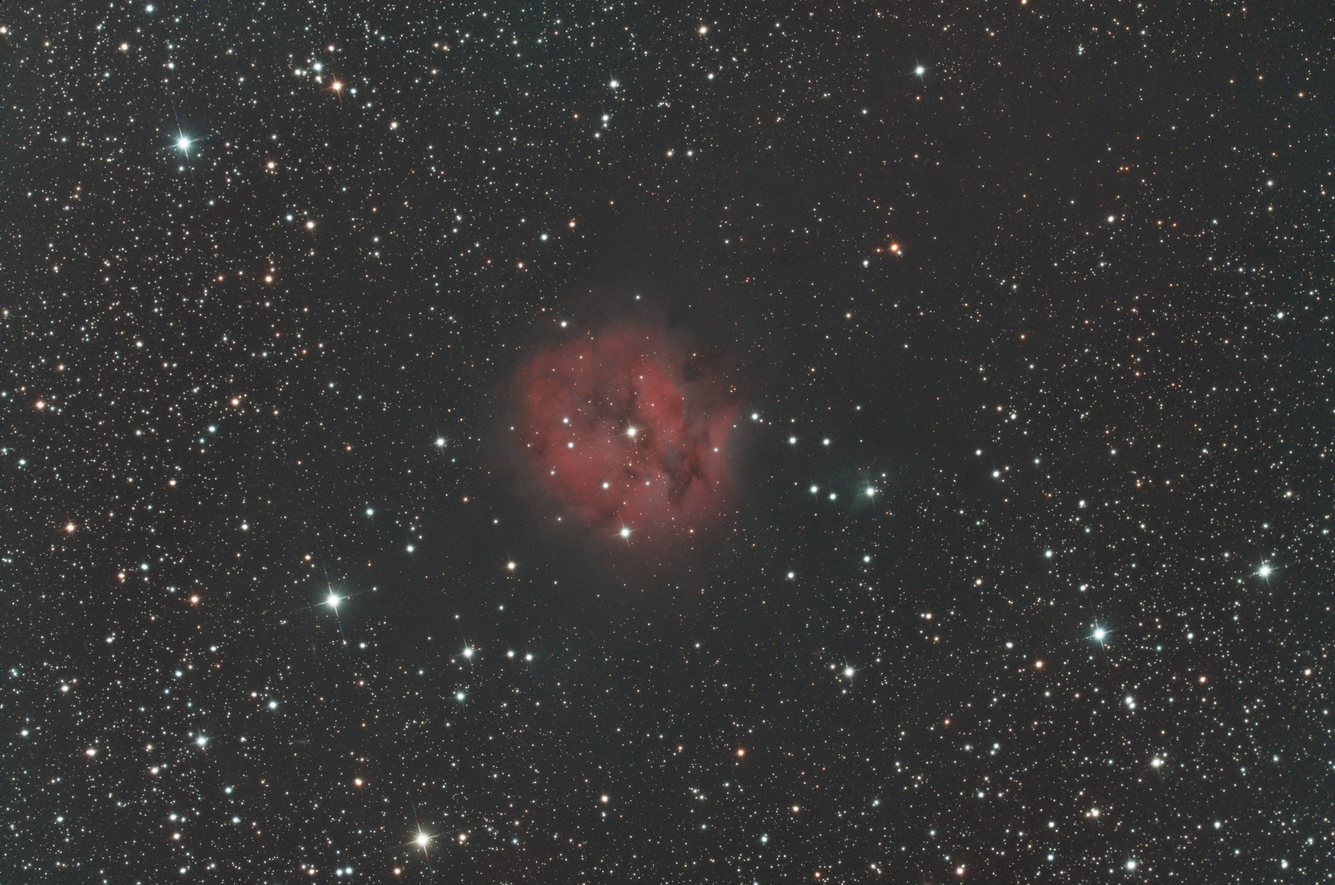
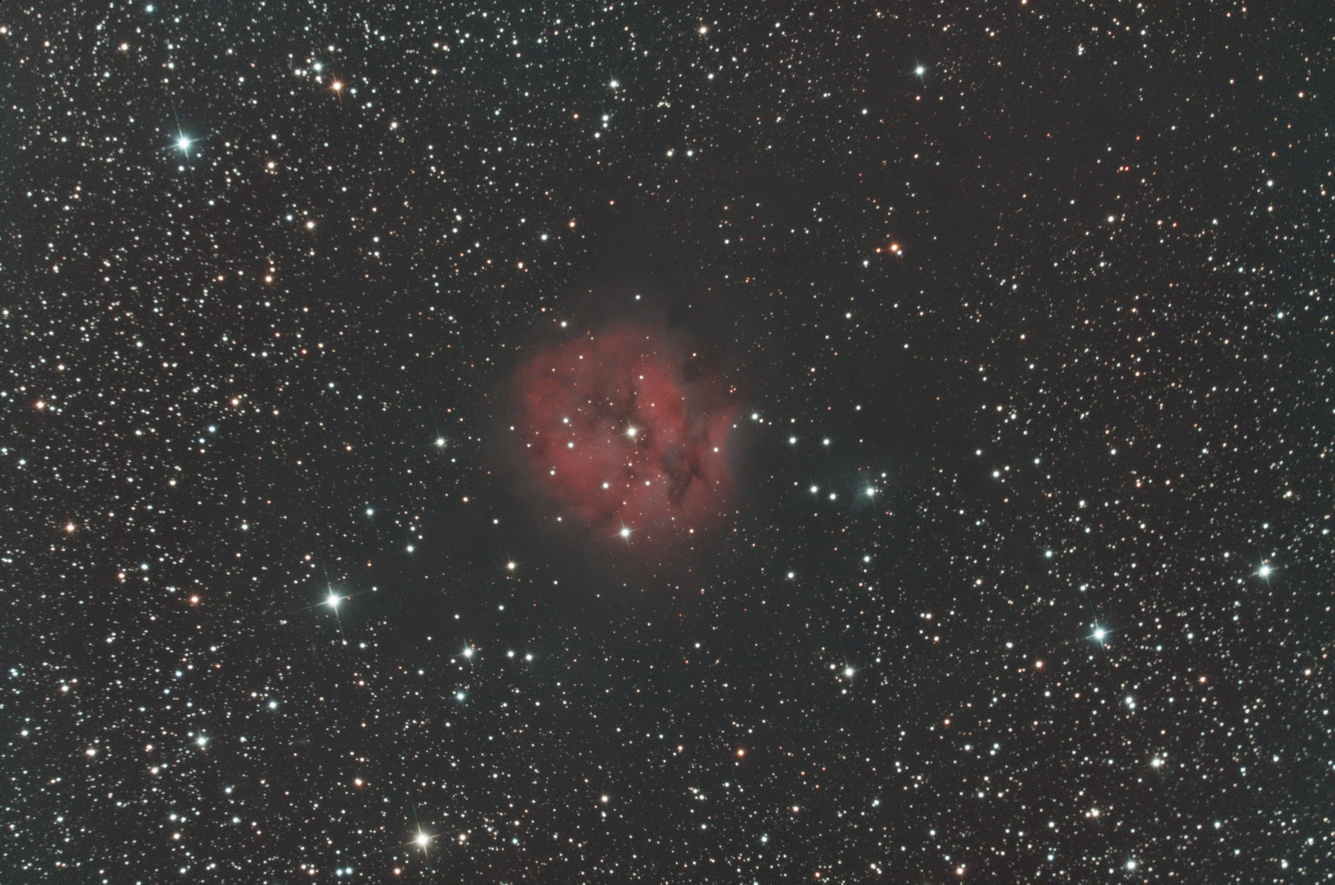
StellAcuity 1.3.1: download, California and Cocoon gradient sliders, new top-left picture

Changed region(s): [[0.0625, 0.3386, 0.0938, 0.3693], [0.0625, 0.1539, 0.0938, 0.1847]]

diff --git a/index.html b/index.html
@@ -7,7 +7,7 @@
 <meta name="description" content="StellAcuity: AI sharpening (deconvolution), star removal and noise reduction for astronomical images. Windows, mono and colour, FITS / XISF / TIFF / JPEG / PNG. 7-day free trial (3 saved results).">
 <!--
   Published at https://stellacuity.com (29 Oct 2026):
-    (download: GitHub Release v1.3.0 - Stellacuity-1.3.0-Windows.zip)
+    (download: GitHub Release v1.3.1 - Stellacuity-1.3.1-Windows.zip)
   (checkout link filled in: Polar)
   (contact address filled in: support@stellacuity.com - forwarded to Gmail by Cloudflare Email Routing)
   (site served at stellacuity.com: the CNAME file)
@@ -170,7 +170,7 @@
       <span class="strapline">Image and optics processing for astrophotographers</span>
     </div>
     <div class="hero-shots">
-      <figure><img class="hero-shot" src="images/top_gradient.jpg?v=1.0" fetchpriority="high" width="1400" height="761"
+      <figure><img class="hero-shot" src="images/top_gradient.jpg?v=1.1" fetchpriority="high" width="1400" height="761"
                    alt="StellAcuity's Remove gradient step, the image before and after in a split view">
         <figcaption><b>Remove gradient</b> - light pollution, moonlight and uneven flats</figcaption></figure>
       <figure><img class="hero-shot" src="images/top_sharpen.jpg?v=1.0" fetchpriority="high" width="1400" height="761"
@@ -202,23 +202,36 @@
   <div class="wrap">
     <h2>Process module - See the difference</h2>
     <p class="lead">Drag the sliders. Each example has buttons above it: <b>Remove gradient</b> shows a whole linear stack before and
-      after its gradient is taken out, <b>Sharpen + denoise</b> shows a crop of a linear stack
+      after its gradient is taken out, <b>Show gradient</b> the gradient itself, <b>Sharpen + denoise</b> shows a crop of a linear stack
       before and after StellAcuity, <b>Remove stars</b> shows that result with its stars removed.</p>
     <p class="small note">All images taken by John Hawkes, the author of StellAcuity. Each is a linear stacked master exactly as it
-      came from stacking; the two colour images have simply been colour calibrated (the Remove gradient example is shown
+      came from stacking; the two colour images have simply been colour calibrated (the Cocoon Remove gradient example is shown
       before any colour calibration, with the green cast of light pollution).</p>
     <div class="examples">
       <div>
         <div class="stepbtns" role="group" aria-label="Choose what to compare" data-v="1.0">
-          <button type="button" class="on" data-l="cocoon_gradient_before" data-r="cocoon_gradient_after" data-ll="Before" data-rl="Gradient removed">Remove gradient</button>
+          <button type="button" class="on" data-l="california_gradient_before" data-r="california_gradient_after" data-ll="Before" data-rl="Gradient removed">Remove gradient</button>
+          <button type="button" data-l="california_gradient_before" data-r="california_gradient_layer" data-ll="Before" data-rl="The gradient taken out">Show gradient</button>
         </div>
         <div class="compare">
-          <img src="images/cocoon_gradient_before.jpg?v=1.0" loading="lazy" alt="The Cocoon Nebula (IC 5146), whole frame, before the gradient is removed" width="2400" height="1592">
-          <img class="after" src="images/cocoon_gradient_after.jpg?v=1.0" loading="lazy" alt="The Cocoon Nebula (IC 5146), whole frame, after the gradient is removed" width="2400" height="1592">
+          <img src="images/california_gradient_before.jpg?v=1.0" loading="lazy" alt="The California Nebula (NGC 1499), whole frame, before the chosen step" width="2400" height="1800">
+          <img class="after" src="images/california_gradient_after.jpg?v=1.0" loading="lazy" alt="The California Nebula (NGC 1499), whole frame, after the chosen step" width="2400" height="1800">
           <div class="handle"></div><span class="label l">Before</span><span class="label r">Gradient removed</span>
           <input type="range" min="0" max="100" value="50" aria-label="Before / after the chosen step">
         </div>
-        <p class="caption">The Cocoon Nebula (IC 5146) - light pollution and gradient removed</p>
+        <p class="caption">The California Nebula (NGC 1499) - gradient removed</p>
+      </div>
+      <div>
+        <div class="stepbtns" role="group" aria-label="Choose what to compare" data-v="1.1">
+          <button type="button" class="on" data-l="cocoon_gradient_before" data-r="cocoon_gradient_after" data-ll="Before" data-rl="Gradient removed">Remove gradient</button>
+        </div>
+        <div class="compare">
+          <img src="images/cocoon_gradient_before.jpg?v=1.1" loading="lazy" alt="The Cocoon Nebula (IC 5146), whole frame, before the gradient is removed" width="2400" height="1592">
+          <img class="after" src="images/cocoon_gradient_after.jpg?v=1.1" loading="lazy" alt="The Cocoon Nebula (IC 5146), whole frame, after the gradient is removed and the background neutralised" width="2400" height="1592">
+          <div class="handle"></div><span class="label l">Before</span><span class="label r">Gradient removed</span>
+          <input type="range" min="0" max="100" value="50" aria-label="Before / after the chosen step">
+        </div>
+        <p class="caption">The Cocoon Nebula (IC 5146) - light pollution and gradient removed, with background neutralisation for colour images</p>
       </div>
       <div>
         <div class="stepbtns" role="group" aria-label="Choose what to compare" data-v="1.0c">
@@ -437,7 +450,7 @@
       <h2 style="text-align:left">Download</h2>
       <p>Try StellAcuity free for 7 days on your own images - nothing to sign up for - and save up to 3 results. After
         that, a licence key unlocks it.</p>
-      <p><a class="btn primary" href="https://github.com/Stellacuity/stellacuity.github.io/releases/download/v1.3.0/Stellacuity-1.3.0-Windows.zip">Download StellAcuity 1.3.0 (Windows, 615 MB zip)</a></p>
+      <p><a class="btn primary" href="https://github.com/Stellacuity/stellacuity.github.io/releases/download/v1.3.1/Stellacuity-1.3.1-Windows.zip">Download StellAcuity 1.3.1 (Windows, 615 MB zip)</a></p>
       <p class="extract-note"><b>Important:</b> right-click the downloaded zip and choose <b>Extract All&hellip;</b> first, then run Stellacuity.exe from the extracted folder. Started from inside the zip, it cannot find its own files.</p>
       <p class="small" style="text-align:left">Windows 10 or 11 (64-bit). A graphics card makes it much faster; 8 GB of memory or more recommended.</p>
     </div>
